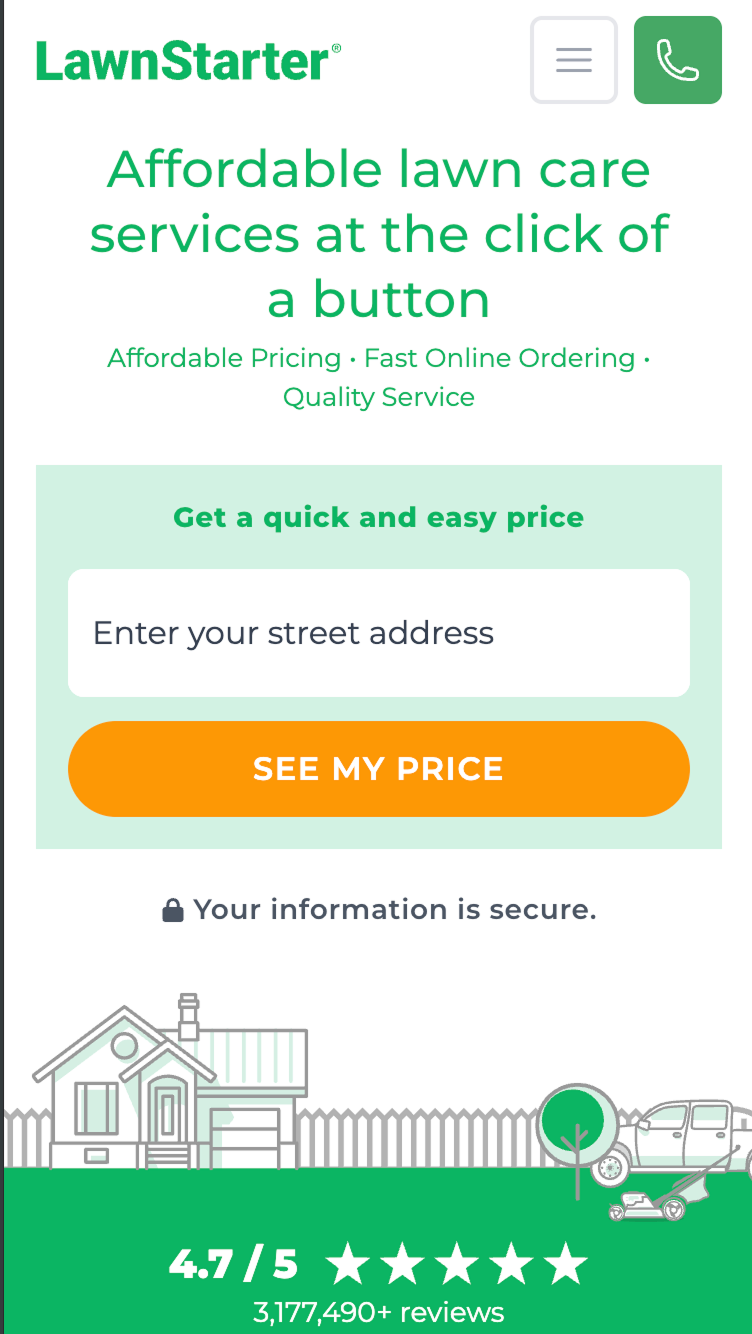
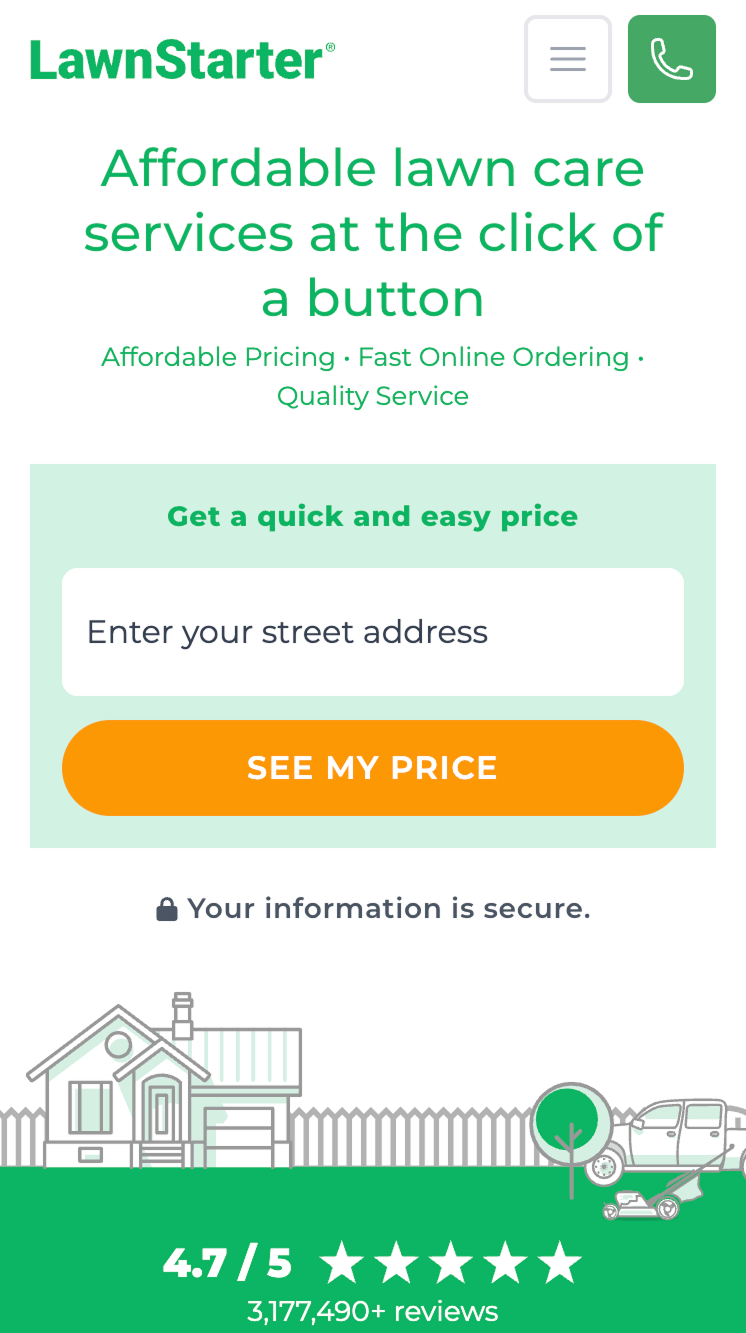
changes to Lawnstarter

diff --git a/lawnstarter.html b/lawnstarter.html
@@ -191,7 +191,7 @@
     display:flex; flex-direction:column;
   }
   .fc-problem{ padding:32px 32px 28px; border-bottom:1px solid var(--line-soft); flex:1; }
-  .fc-rec{ padding:28px 32px 32px; }
+  .fc-rec{ padding:28px 32px 32px; background:var(--cream-2); }
   .fc-tag{
     font-family:var(--mono); font-size:10px; letter-spacing:.2em;
     text-transform:uppercase; color:var(--ink-faint); margin-bottom:12px;
@@ -203,14 +203,14 @@
   .fc-problem p{ font-size:14px; line-height:1.7; color:var(--ink-mute); margin:0; }
   .fc-rec-label{
     font-family:var(--mono); font-size:10px; letter-spacing:.2em;
-    text-transform:uppercase; color:var(--forest); margin-bottom:10px;
+    text-transform:uppercase; color:var(--forest); margin-bottom:12px;
   }
   .fc-rec p{ font-size:14px; line-height:1.7; color:var(--ink-2); margin:0 0 16px; }
   .fc-rec p:last-child{ margin:0; }
   .fc-impact{
-    margin-top:16px; padding-top:16px; border-top:1px solid var(--line-soft);
-    font-family:var(--mono); font-size:10px; letter-spacing:.18em;
-    text-transform:uppercase; color:var(--forest);
+    margin-top:18px; padding-top:14px; border-top:1px solid var(--line-soft);
+    font-family:var(--mono); font-size:11px; letter-spacing:.04em;
+    color:var(--forest);
   }
 
   /* ── DISCIPLINE CHIPS ── */
@@ -226,38 +226,18 @@
   .pga-tag.pga-before{ color:var(--rust); border-color:var(--rust); }
   .pga-tag.pga-after{ color:var(--forest); border-color:var(--forest); }
 
-  /* phone mockup frame */
+  /* screen frame — simple border, no fake phone */
   .phone-wrap{
     position:relative;
-    background:#1a1814;
-    border-radius:44px;
-    padding:14px 10px;
-    box-shadow:
-      0 0 0 1.5px #2a2724,
-      0 0 0 3px #3a3530,
-      0 32px 64px -16px rgba(0,0,0,.5);
-  }
-  .phone-wrap .notch{
-    position:absolute;
-    top:14px; left:50%; transform:translateX(-50%);
-    width:80px; height:18px;
-    background:#1a1814;
-    border-radius:0 0 14px 14px;
-    z-index:2;
-  }
-  .phone-wrap .screen{
-    border-radius:32px;
+    border:1px solid var(--line);
+    border-radius:8px;
     overflow:hidden;
-    background:#000;
-    position:relative;
+    box-shadow:0 8px 28px -8px rgba(0,0,0,.12);
   }
+  .phone-wrap .notch{ display:none; }
+  .phone-wrap .screen{ border-radius:0; overflow:hidden; background:#000; }
   .phone-wrap .screen img{ width:100%; display:block; border:none; }
-  .phone-wrap .home-bar{
-    width:80px; height:4px;
-    background:rgba(255,255,255,.25);
-    border-radius:2px;
-    margin:10px auto 0;
-  }
+  .phone-wrap .home-bar{ display:none; }
 
   /* before: 3 screens + arrows */
   .pga-screens{
@@ -275,7 +255,7 @@
     text-transform:uppercase; color:var(--ink-faint); margin-bottom:10px;
     text-align:center;
   }
-  .pga-caption{ font-size:13px; line-height:1.6; color:var(--ink-mute); margin-top:24px; text-align:center; max-width:220px; }
+  .pga-screen .pga-caption{ font-size:13px; line-height:1.6; color:var(--ink-mute); margin-top:32px; text-align:center; max-width:220px; }
 
   /* divider */
   .pga-divider{ display:flex; align-items:center; gap:16px; margin:40px 0; }
@@ -403,7 +383,6 @@
       <span class="chip">Multi-Brand Audit</span>
     </div>
 
-    <div class="kicker">Acquisition Integrity · Multi-Brand Growth Audit</div>
     <h1>From no growth design presence<br>to <em>44 UX opportunities.</em><br></h1>
     <div class="role-line">Senior Product Designer — Growth Squad · LawnStarter, Lawn Love, Home Gnome</div>
 
@@ -426,12 +405,12 @@
     <div class="section-label">01 — How I Worked</div>
     <h2>Evidence-first, from <em>day one.</em></h2>
 
-    <p>I joined as the first designer embedded in LawnStarter's Growth team — a function that included PMs, engineers, SEO, SEM, and content, but had never had a designer in the room. With no inherited design context, the first job was building the diagnostic methodology from scratch: walk the products as a real user, map every friction point, and validate the highest-priority findings with behavioral data before deciding what to act on.</p>
+    <p>I joined as the first designer embedded in LawnStarter's Growth team. This team included a PM, engineers, SEO, SEM, and content, but had never had a designer in the room. With no inherited design context, the first job was building the diagnostic methodology from scratch: walk the products as a real user, map every friction point, and validate the highest-priority findings with behavioral data before deciding what to act on.</p>
 
     <div class="evidence-table">
       <div class="evidence-row">
         <div class="ev-source">Self-Conducted UX Teardown</div>
-        <div class="ev-finding">Walked through all three brands as a first-time user, mapping friction points against NNg heuristics and growth design intuition. Source of the majority of the 44 UX opportunities.</div>
+        <div class="ev-finding">Walked through all three brands as a first-time user, mapping friction points against NNg heuristics and growth design intuition. </div>
       </div>
       <div class="evidence-row">
         <div class="ev-source">Hotjar Recordings</div>
@@ -439,7 +418,7 @@
       </div>
       <div class="evidence-row">
         <div class="ev-source">Effort / Impact Scoring</div>
-        <div class="ev-finding">All 44 UX opportunities scored across a high / medium / low effort and impact matrix, then ranked and separated into Quick Wins and Larger Rocks.</div>
+        <div class="ev-finding">All 44 UX opportunities scored across a high / medium / low effort and impact matrix.</div>
       </div>
     </div>
 
@@ -454,11 +433,9 @@
     <div class="section-label">02 — Selected Findings</div>
     <h2>Four examples from <em>forty-four.</em></h2>
 
-    <p>The full audit surfaced 44 UX opportunities across three brands, scored and prioritized by effort and impact. These four illustrate the range — from quick systemic logic fixes to longer-term architectural changes — and the level of specificity each finding carried.</p>
+    <p> These four illustrate the range from quick systemic logic fixes to longer-term architectural changes and the level of specificity each finding carried.</p>
 
-    <div class="pull-quote">
-      <p>"Every paid click carried a $19 offer. Clicking the company logo silently stripped it. Marketing had no idea."</p>
-    </div>
+
 
     <div class="findings-grid">
 
@@ -466,11 +443,11 @@
         <div class="fc-problem">
           <div class="fc-tag">Systemic Logic — Quick Win</div>
           <h4>The $19 offer that disappeared at the logo</h4>
-          <p>Clicking the company logo on an SEM page navigated users out of their promotional context, silently removing the $19 offer they'd arrived to claim. Marketing was spending on clicks the product's own navigation was converting to zero-dollar sessions.</p>
+          <p>Clicking the company logo on an SEM page navigated users out of their promotional context, silently removing the $19 offer they'd arrived to claim. Marketing was potentially spending on clicks the product's own navigation was converting to zero-dollar sessions.</p>
         </div>
         <div class="fc-rec">
           <div class="fc-rec-label">→ Recommendation</div>
-          <p>Lock navigation on SEM landing pages. A product-layer fix — not a campaign adjustment — that directly protected every dollar Marketing was spending on paid acquisition.</p>
+          <p>Lock navigation on SEM landing pages. </p>
           <div class="fc-impact">Anticipated impact: Stopped paid acquisition spend from being silently devalued at the navigation level</div>
         </div>
       </div>
@@ -478,13 +455,13 @@
       <div class="finding-card">
         <div class="fc-problem">
           <div class="fc-tag">Credibility — Quick Win</div>
-          <h4>Surface what earns trust; remove what doesn't</h4>
-          <p>Guarantees and bonded &amp; insured status — the signals that matter to a first-time user — weren't visible at the point of decision on mobile. Meanwhile, "As Seen In..." sections with no verifiable source links were actively undermining credibility.</p>
+          <h4>Surface what earns trust</h4>
+          <p>Guarantees and bonded &amp; insured status (the signals that matter to a first-time user) weren't visible at the point of decision on mobile.</p>
         </div>
         <div class="fc-rec">
           <div class="fc-rec-label">→ Recommendation</div>
-          <p>Move guarantees and bonded &amp; insured status to the point of decision. Remove unverifiable "As Seen In" claims. Credibility is as much about what you're willing to cut as what you add.</p>
-          <div class="fc-impact">Anticipated impact: Trust rebuilt at the decision point — as much by what was removed as by what was added</div>
+          <p>Move guarantees and bonded &amp; insured status to the point of decision.</p>
+          <div class="fc-impact">Anticipated impact: Trust rebuilt at the decision point.</div>
         </div>
       </div>
 
@@ -492,7 +469,7 @@
         <div class="fc-problem">
           <div class="fc-tag">Psychological Friction — Near + Long Term</div>
           <h4>Users asked for trust before they'd received any value</h4>
-          <p>Hotjar recordings showed consistent hesitation at the phone number field: pause, re-read, abandon. Users clicked "See My Price" expecting a price — they got an identity form with no explanation of why.</p>
+          <p>Hotjar recordings showed consistent hesitation at the phone number field: pause, re-read, abandon. Users clicked "See My Price" expecting a price, but instead, they are asked for required phone number with no explanation of why.</p>
         </div>
         <div class="fc-rec">
           <div class="fc-rec-label">→ Recommendation</div>
@@ -504,8 +481,8 @@
       <div class="finding-card">
         <div class="fc-problem">
           <div class="fc-tag">User Control — Larger Rock</div>
-          <h4>Two paths to the same dead end</h4>
-          <p>After entering an address, there was no way to go back or correct a typo. Users with new builds couldn't proceed at all — the database couldn't match their address, and there was no fallback. Two different users, same outcome: no way forward.</p>
+          <h4>Address Dead End</h4>
+          <p>After entering an address, there was no way to go back or correct a typo. Skeptical users who may try a fake address first have no way to edit their address. Users with new home couldn't proceed at all. If the database couldn't match their address, there was no fallback.</p>
         </div>
         <div class="fc-rec">
           <div class="fc-rec-label">→ Recommendation</div>
@@ -543,7 +520,7 @@
             <div class="screen"><img src="assets/LS_Before_Screen_1.png" alt="LawnStarter landing page — address field and See My Price CTA"></div>
             <div class="home-bar"></div>
           </div>
-          <p class="pga-caption">Landing page promises a quick price — just enter your address and click.</p>
+          <p class="pga-caption">Landing page promises a quick price. The user's expectation is to get a price from clicking the CTA.</p>
         </div>
         <div class="pga-flow-arrow">
           <svg width="24" height="24" viewBox="0 0 20 20" fill="none" stroke="currentColor" stroke-width="1.5"><path d="M4 10h12M11 5l5 5-5 5"/></svg>
@@ -555,7 +532,7 @@
             <div class="screen"><img src="assets/LS_Before_Screen_2.png" alt="Address autocomplete dropdown — no friction yet"></div>
             <div class="home-bar"></div>
           </div>
-          <p class="pga-caption">Address autocomplete appears. Still no indication of what comes next.</p>
+          <p class="pga-caption">Address autocomplete appears. Normal experience.</p>
         </div>
         <div class="pga-flow-arrow">
           <svg width="24" height="24" viewBox="0 0 20 20" fill="none" stroke="currentColor" stroke-width="1.5"><path d="M4 10h12M11 5l5 5-5 5"/></svg>
@@ -567,7 +544,7 @@
             <div class="screen"><img src="assets/LS_Before_Screen_3.png" alt="Name and phone number fields appear after address — no explanation"></div>
             <div class="home-bar"></div>
           </div>
-          <p class="pga-caption">Address selected — name and phone required. No explanation. No opt-out.</p>
+          <p class="pga-caption">"Oh no. Now I have to provide a phone number..." is what a user might be thinking.</p>
         </div>
       </div>
 
@@ -587,7 +564,7 @@
           <div class="home-bar"></div>
         </div>
         <div class="pga-after-text">
-          <p>One example of the design direction included in the handoff. A tooltip explains the ask: "Help us reach you fast for lawn service problems or deals." Incentive copy below gives users a reason to comply rather than a reason to leave.</p>
+          <p>This is just one example of the design direction included in the handoff. </p><p>Phone number ideally is optional (for now). A tooltip explains the ask: "Help us reach you fast for lawn service problems or deals." Incentive copy below gives users a reason to comply rather than a reason to leave.</p>
           <p>The gate doesn't disappear. The demand becomes a value exchange.</p>
         </div>
       </div>